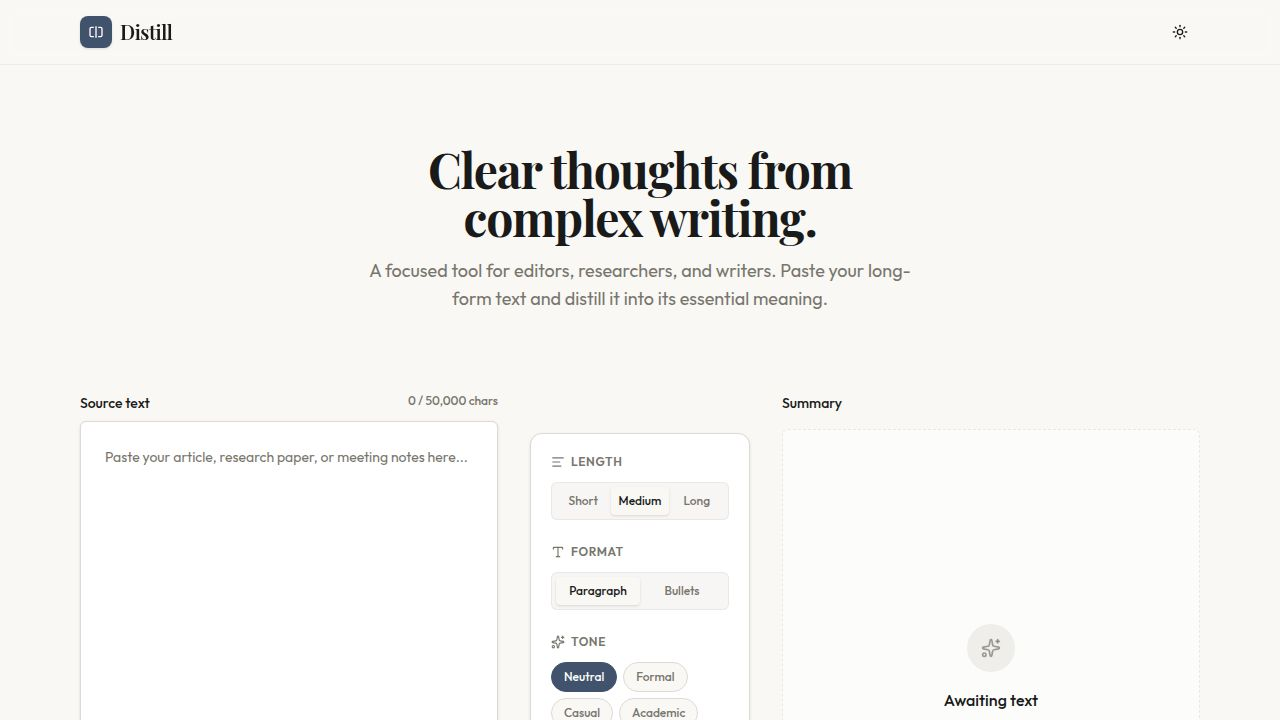
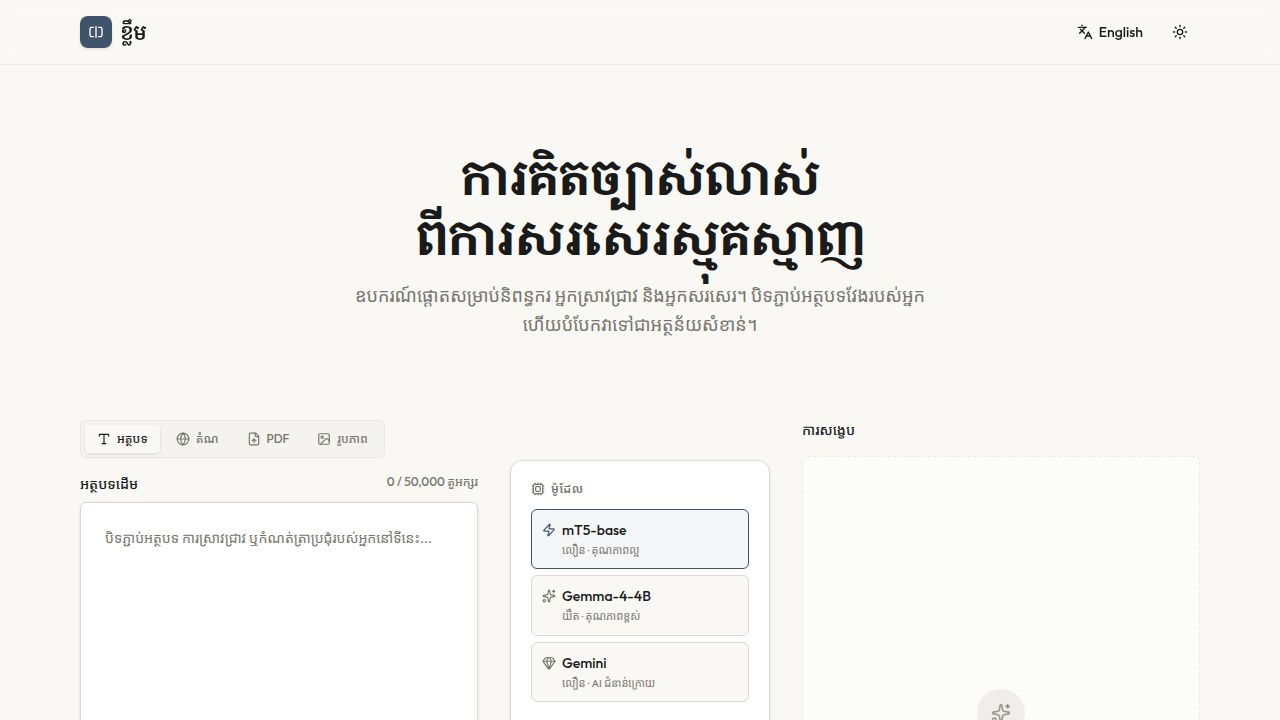
Limit summarization token length for mT5-base model
Cap the maximum new tokens for the mT5-base summarization model to 256 in the frontend configuration.

Replit-Commit-Author: Agent
Replit-Commit-Session-Id: 0e021f21-d904-4bbc-9efa-dd834603aba4
Replit-Commit-Checkpoint-Type: full_checkpoint
Replit-Commit-Event-Id: a9835dc8-4127-4602-840f-67a31ea1a668
Replit-Commit-Screenshot-Url: https://storage.googleapis.com/screenshot-production-us-central1/5a4dc962-45f1-4981-a9cc-4ddd957c0368/0e021f21-d904-4bbc-9efa-dd834603aba4/IeCsdBV
Replit-Helium-Checkpoint-Created: true

diff --git a/artifacts/summarizer/src/pages/home.tsx b/artifacts/summarizer/src/pages/home.tsx
@@ -444,7 +444,7 @@ export default function Home() {
                     <input
                       type="range"
                       min={32}
-                      max={1024}
+                      max={256}
                       step={32}
                       value={maxNewTokens}
                       onChange={(e) => setMaxNewTokens(Number(e.target.value))}